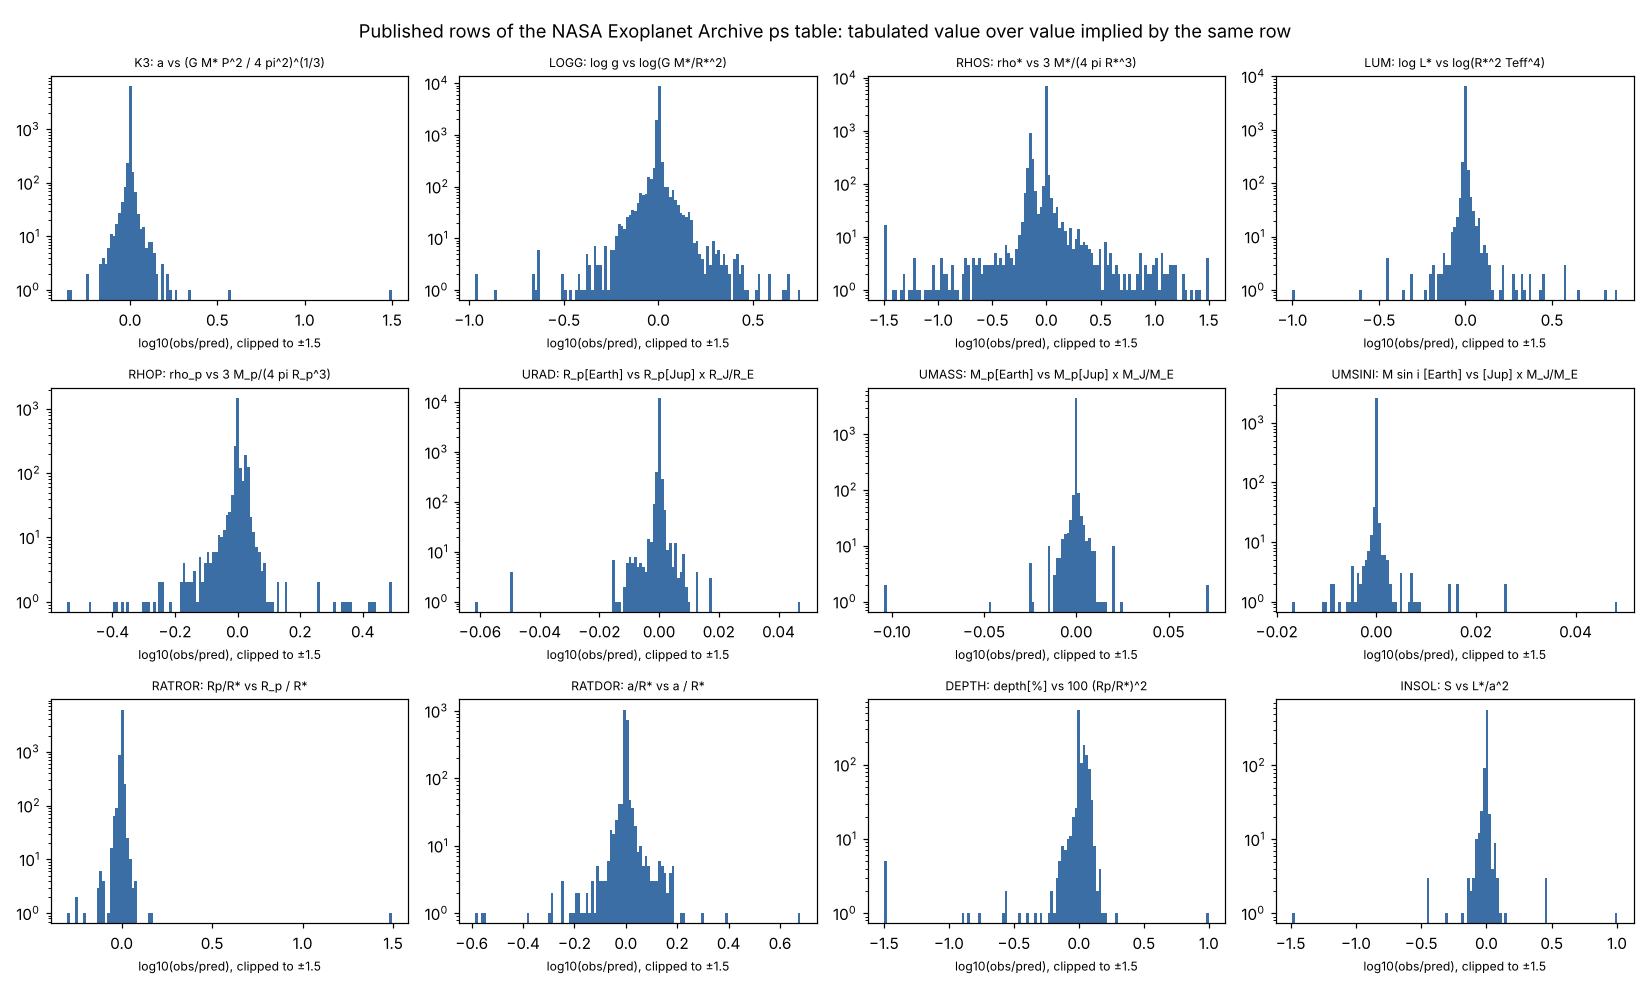
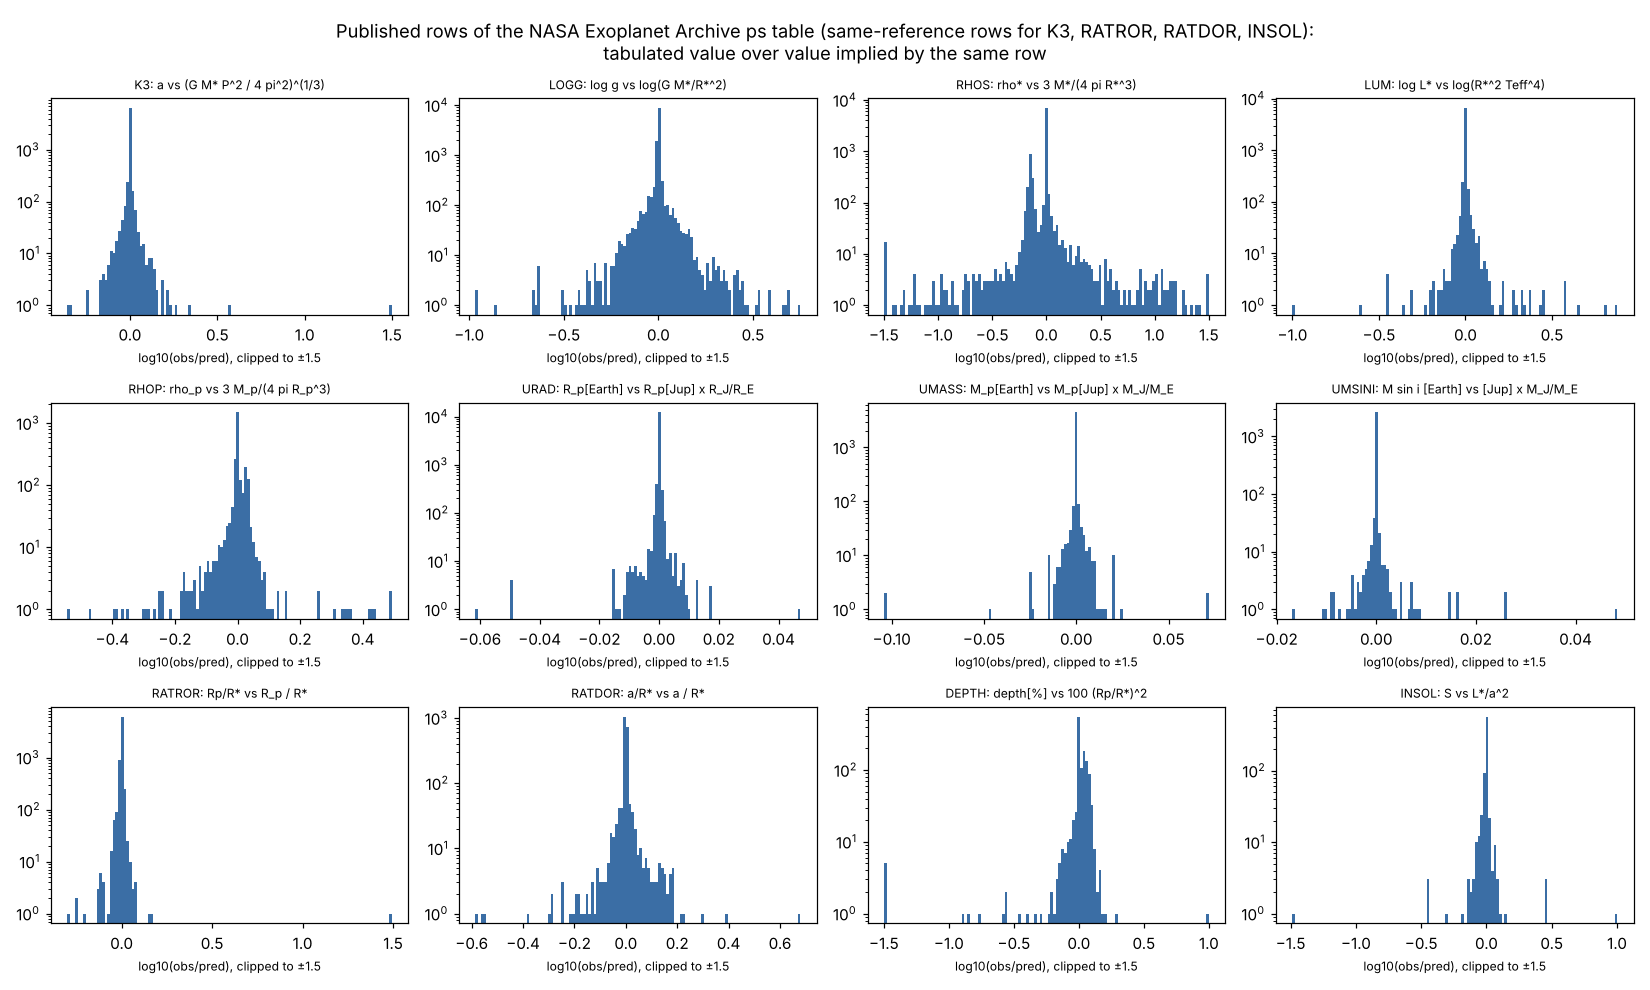
Exoplanet Archive audit: address fifth review
Wording only: reviewer and download counts, the seven composite
densities from the DR25 Supplemental table, the scope of the outlier
file, a rounding limitation, and the figure title.

Claude-Session: https://claude.ai/code/session_01HCyud1jzmKBz8D6ys8e19x

diff --git a/domains/astronomy-and-cosmology/projects/exoplanet-archive-self-consistency/src/audit.py b/domains/astronomy-and-cosmology/projects/exoplanet-archive-self-consistency/src/audit.py
@@ -314,7 +314,8 @@ def main():
         ax.set_yscale("log")
         ax.set_title(f"{cid}: {desc}", fontsize=8)
         ax.set_xlabel("log10(obs/pred), clipped to ±1.5", fontsize=8)
-    fig.suptitle("Published rows of the NASA Exoplanet Archive ps table: tabulated value over value implied by the same row")
+    fig.suptitle("Published rows of the NASA Exoplanet Archive ps table (same-reference rows for K3, RATROR, RATDOR, INSOL):\n"
+                 "tabulated value over value implied by the same row")
     fig.tight_layout()
     fig.savefig(res / "discrepancy_histograms.png", dpi=110)
 

diff --git a/domains/astronomy-and-cosmology/projects/exoplanet-archive-self-consistency/README.md b/domains/astronomy-and-cosmology/projects/exoplanet-archive-self-consistency/README.md
@@ -102,7 +102,7 @@ Snapshot: `ps` table downloaded 2026-11-23, 40,428 rows, 6,473 planets
 
 3. **In rows whose stellar parameters cite a Kepler KOI table (Q1-Q12,
    Q1-Q16, DR24, DR25), `st_dens` is a transit-fitted quantity, not the
-   mass-radius density; and in all rows of the Q1-Q8 to DR25 KOI tables,
+   mass-radius density; and in the rows of the Q1-Q8 to DR25 KOI tables,
    `pl_ratdor` is the fitted a/R★, not `pl_orbsmax`/`st_rad`.** In those
    10,816 rows the stellar density differs from 3M★/4πR★³ by a median of 89%
    (95.4% of rows by more than 5%). a/R★ differs from `pl_orbsmax`/`st_rad`
@@ -118,8 +118,9 @@ Snapshot: `ps` table downloaded 2026-11-23, 40,428 rows, 6,473 planets
    fitted-versus-catalogue density difference is a known effect; the point
    for users is that the `ps` column name does not distinguish the two, and
    that 370 "published" planet rows also carry KOI-table stellar values. In
-   the composite table, 1,347 of the 5,859 stellar densities cite a KOI
-   table (1,340 of them DR24 or DR25). Evidence: `external-data`; the column
+   the composite table, 1,340 of the 5,859 stellar densities cite the DR24
+   or DR25 KOI table and are therefore fitted values; 7 more cite the DR25
+   Supplemental table. Evidence: `external-data`; the column
    definition is supporting `literature`.
 
 4. `results/outliers.csv` lists 3,276 row-identity entries (3,100 distinct
@@ -127,7 +128,9 @@ Snapshot: `ps` table downloaded 2026-11-23, 40,428 rows, 6,473 planets
    by more than 20%. Of the entries, 1,453 are the item 1 densities, 324 are
    KOI-table fitted densities (item 3), 156 belong to the approximate DEPTH
    identity and 2 are rounding. The remaining 1,341 entries (1,192 rows, 941
-   planets) are candidate inconsistencies. Only the cases named in this
+   planets) are candidate inconsistencies. For the planet-star identities
+   (K3, RATROR, RATDOR, INSOL) only same-reference rows are listed; 6
+   mixed-reference entries above 20% (1 K3, 5 RATROR) are not. Only the cases named in this
    README were traced to their papers. The rest are leads, not confirmed
    errors.
 
@@ -277,7 +280,7 @@ matplotlib 3.11.2 (the versions used):
 cd domains/astronomy-and-cosmology/projects/exoplanet-archive-self-consistency
 python src/fetch.py           # ~31 MB from exoplanetarchive.ipac.caltech.edu, about 1 minute
 python src/audit.py           # about 5 seconds; writes results/summary.*, outliers.csv, by_reference.csv, PNG
-python src/density_units.py   # one more small TAP query (pscomppars); --offline skips it
+python src/density_units.py   # two more small TAP queries (pscomppars); --offline skips them
 python src/koi_columns.py     # five more TAP queries (the KOI tables)
 python src/toi1227_luminosity.py   # no input, no network
 ```
@@ -285,9 +288,10 @@ python src/toi1227_luminosity.py   # no input, no network
 The archive changes continuously. A later download may not match
 `data/ps.sha256` (later downloads on the same day did), and counts will
 move as rows are added or corrected. `fetch.py` keeps the committed
-`data/fetch_meta.json` when the checksum matches. The two smaller downloads
-have their checksums and queries in `data/pscomppars_dens.sha256` and
-`data/koi_tables.sha256`. The queries have no `ORDER BY`, so a checksum can
+`data/fetch_meta.json` when the checksum matches. The six smaller downloads
+(the `pscomppars` density columns and five KOI tables) have their checksums
+and queries in `data/pscomppars_dens.sha256` and `data/koi_tables.sha256`;
+the `pscomppars` row count is a second, unchecksummed query. The queries have no `ORDER BY`, so a checksum can
 also change if the server returns rows in another order. The
 committed results are for the snapshot whose checksum and query are in
 `data/fetch_meta.json`. The raw file is not committed.
@@ -411,12 +415,16 @@ Found:
   "2431 +122 −125 ρ⊙" against archive value "2.431 +0.122 -0.125 g/cm^3",
   "Typo in stellar density in Table E.1."
 
-Three reviewers repeated the search on 2026-11-23 with other terms (density
-mislabel or erratum, physically inconsistent rows, unit mistakes in curated
-catalogues, `st_dens` unit error, log g inconsistent with mass and radius;
-web, OpenAlex and arXiv). The first found nothing further, the second found
-the two log g items, the third found Loyd et al. 2020 and the TOI-815 entry.
-None found a prior statement of the density problem for the four references.
+Each reviewer in the review log repeated the search on 2026-11-23 with
+other terms (density mislabel or erratum, physically inconsistent rows, unit
+mistakes in curated catalogues, `st_dens` unit error or solar units, log g
+inconsistent with mass and radius, sanity or plausibility checks of
+exoplanet databases, typos and transcription errors in the archive, the
+archive's 2025 description paper arXiv:2506.03299 and its release notes;
+web, OpenAlex and arXiv). The second found the two log g items, the third
+found Loyd et al. 2020 and the TOI-815 entry, and the others found nothing
+further. None found a prior statement of the density problem for the four
+references.
 
 Not found in the searches described: violation rates for the identities
 other than log g, or any statement that the densities of the four references
@@ -451,6 +459,10 @@ know.
   routes (spectroscopic gravity, transit-derived density, limb darkening),
   not mistakes.
 - Propagated σ assumes independent errors and symmetrises asymmetric ones.
+- Rounding of the printed values is not modelled. Two reviewers bounded it
+  with their own code (not part of this repository): it can account for at
+  most about 5% of the K3 rows and 12% of the LOGG rows above 5%, so it
+  does not explain the rates.
 - `pl_refname == st_refname` is taken as "single reference". Whether the
   archive ever fills individual cells of such a row from elsewhere was not
   checked.
@@ -466,3 +478,4 @@ know.
 | 2026-11-23 | claude-fable-5-2, a second fresh agent session launched by the author's session on the same terms (same model as the author) | Clean clone; reran all five commands (all result files identical); recomputed the main counts with separate code; read `src/`; fetched Fulton & Petigura 2018, Torres et al. 2017, Mann et al. 2017 and 2022, MacDonald et al. 2016, Decocq et al. 2026 and the archive documentation; new prior-art search. Not checked: journal versions, the ten further density references, other outlier rows | Changes needed, headline items stand: 12 points. A bug made the density "control window" identical to the test window, reversing a stated conclusion; references were grouped by short name, which merged two "Mann et al. 2017" papers and hid a fourth affected reference; TICv8 rows diluted the stellar rates; a prior log g consistency rate (arXiv:2505.22205) was missed; claims with two labels; missing checksums. All addressed in the following commit. Status stays `result` |
 | 2026-11-23 | claude-fable-5-2, a third fresh agent session launched by the author's session on the same terms (same model as the author) | Clean clone; reran all five commands (all three download checksums and all result files identical); recomputed the main counts with separate code and added robustness checks (per stellar solution instead of per row; rounding); read `src/`; fetched all five papers, Decocq et al., arXiv:2505.22205, arXiv:2611.00856 and the archive documentation; new prior-art search. Not checked: journal versions (publisher and CDS unreachable), the ten further density references, other outlier rows | Changes needed, no headline claim or table number affected: 8 points. A wrong host count for the archive's discrepancy page (removed); the unit documentation page not cited; three correct numbers not printed by any script; Loyd et al. 2020 and the TOI-815 entry missing from prior work; "5% in log g" ambiguous; two citation markers; stale prior-work sentences; HTML entities in result files. All addressed in the following commit. Status stays `result` |
 | 2026-11-23 | claude-fable-5-2, a fourth fresh agent session launched by the author's session on the same terms (same model as the author) | Clean clone; reran all five commands (checksums and result files identical); recomputed the table and claim numbers with separate code; read `src/`; fetched and checked every quotation; new prior-art search (nothing further found). Not checked: journal versions (CDS unreachable), papers marked from memory, the ten further density references, other outlier rows | Changes needed, no headline claim overturned: 6 points. The KOI density median (56%) was diluted by TICv8-star rows of the DR25 Supplemental table (89% for KOI-table stars); MacDonald et al.'s own Table 2 carries the g cm⁻³ label, so that case is the paper's, not the archive's; a misplaced line in a results file; the order of the prior-art searches misstated; two archive values not printed by any script; a section number. All addressed in the following commit. Status stays `result` |
+| 2026-11-23 | claude-fable-5-2, a fifth fresh agent session launched by the author's session on the same terms (same model as the author) | Clean clone; reran all five commands (all seven download checksums and all result files identical); recomputed the claim and table numbers with separate code; read `src/`; fetched and checked every quotation and every statement about a paper's tables; new prior-art search (nothing further found). Not checked: journal versions (CDS unreachable), items marked from memory, the ten further density references, other outlier rows | Changes needed, all minor: 4 wording points (a stale count of reviewers, a stale count of downloads, 7 composite densities that cite the DR25 Supplemental table described as fitted, and the outlier file's omission of mixed-reference rows not stated). No claim, table number, script or label affected. All addressed in the following commit. Status stays `result` |
